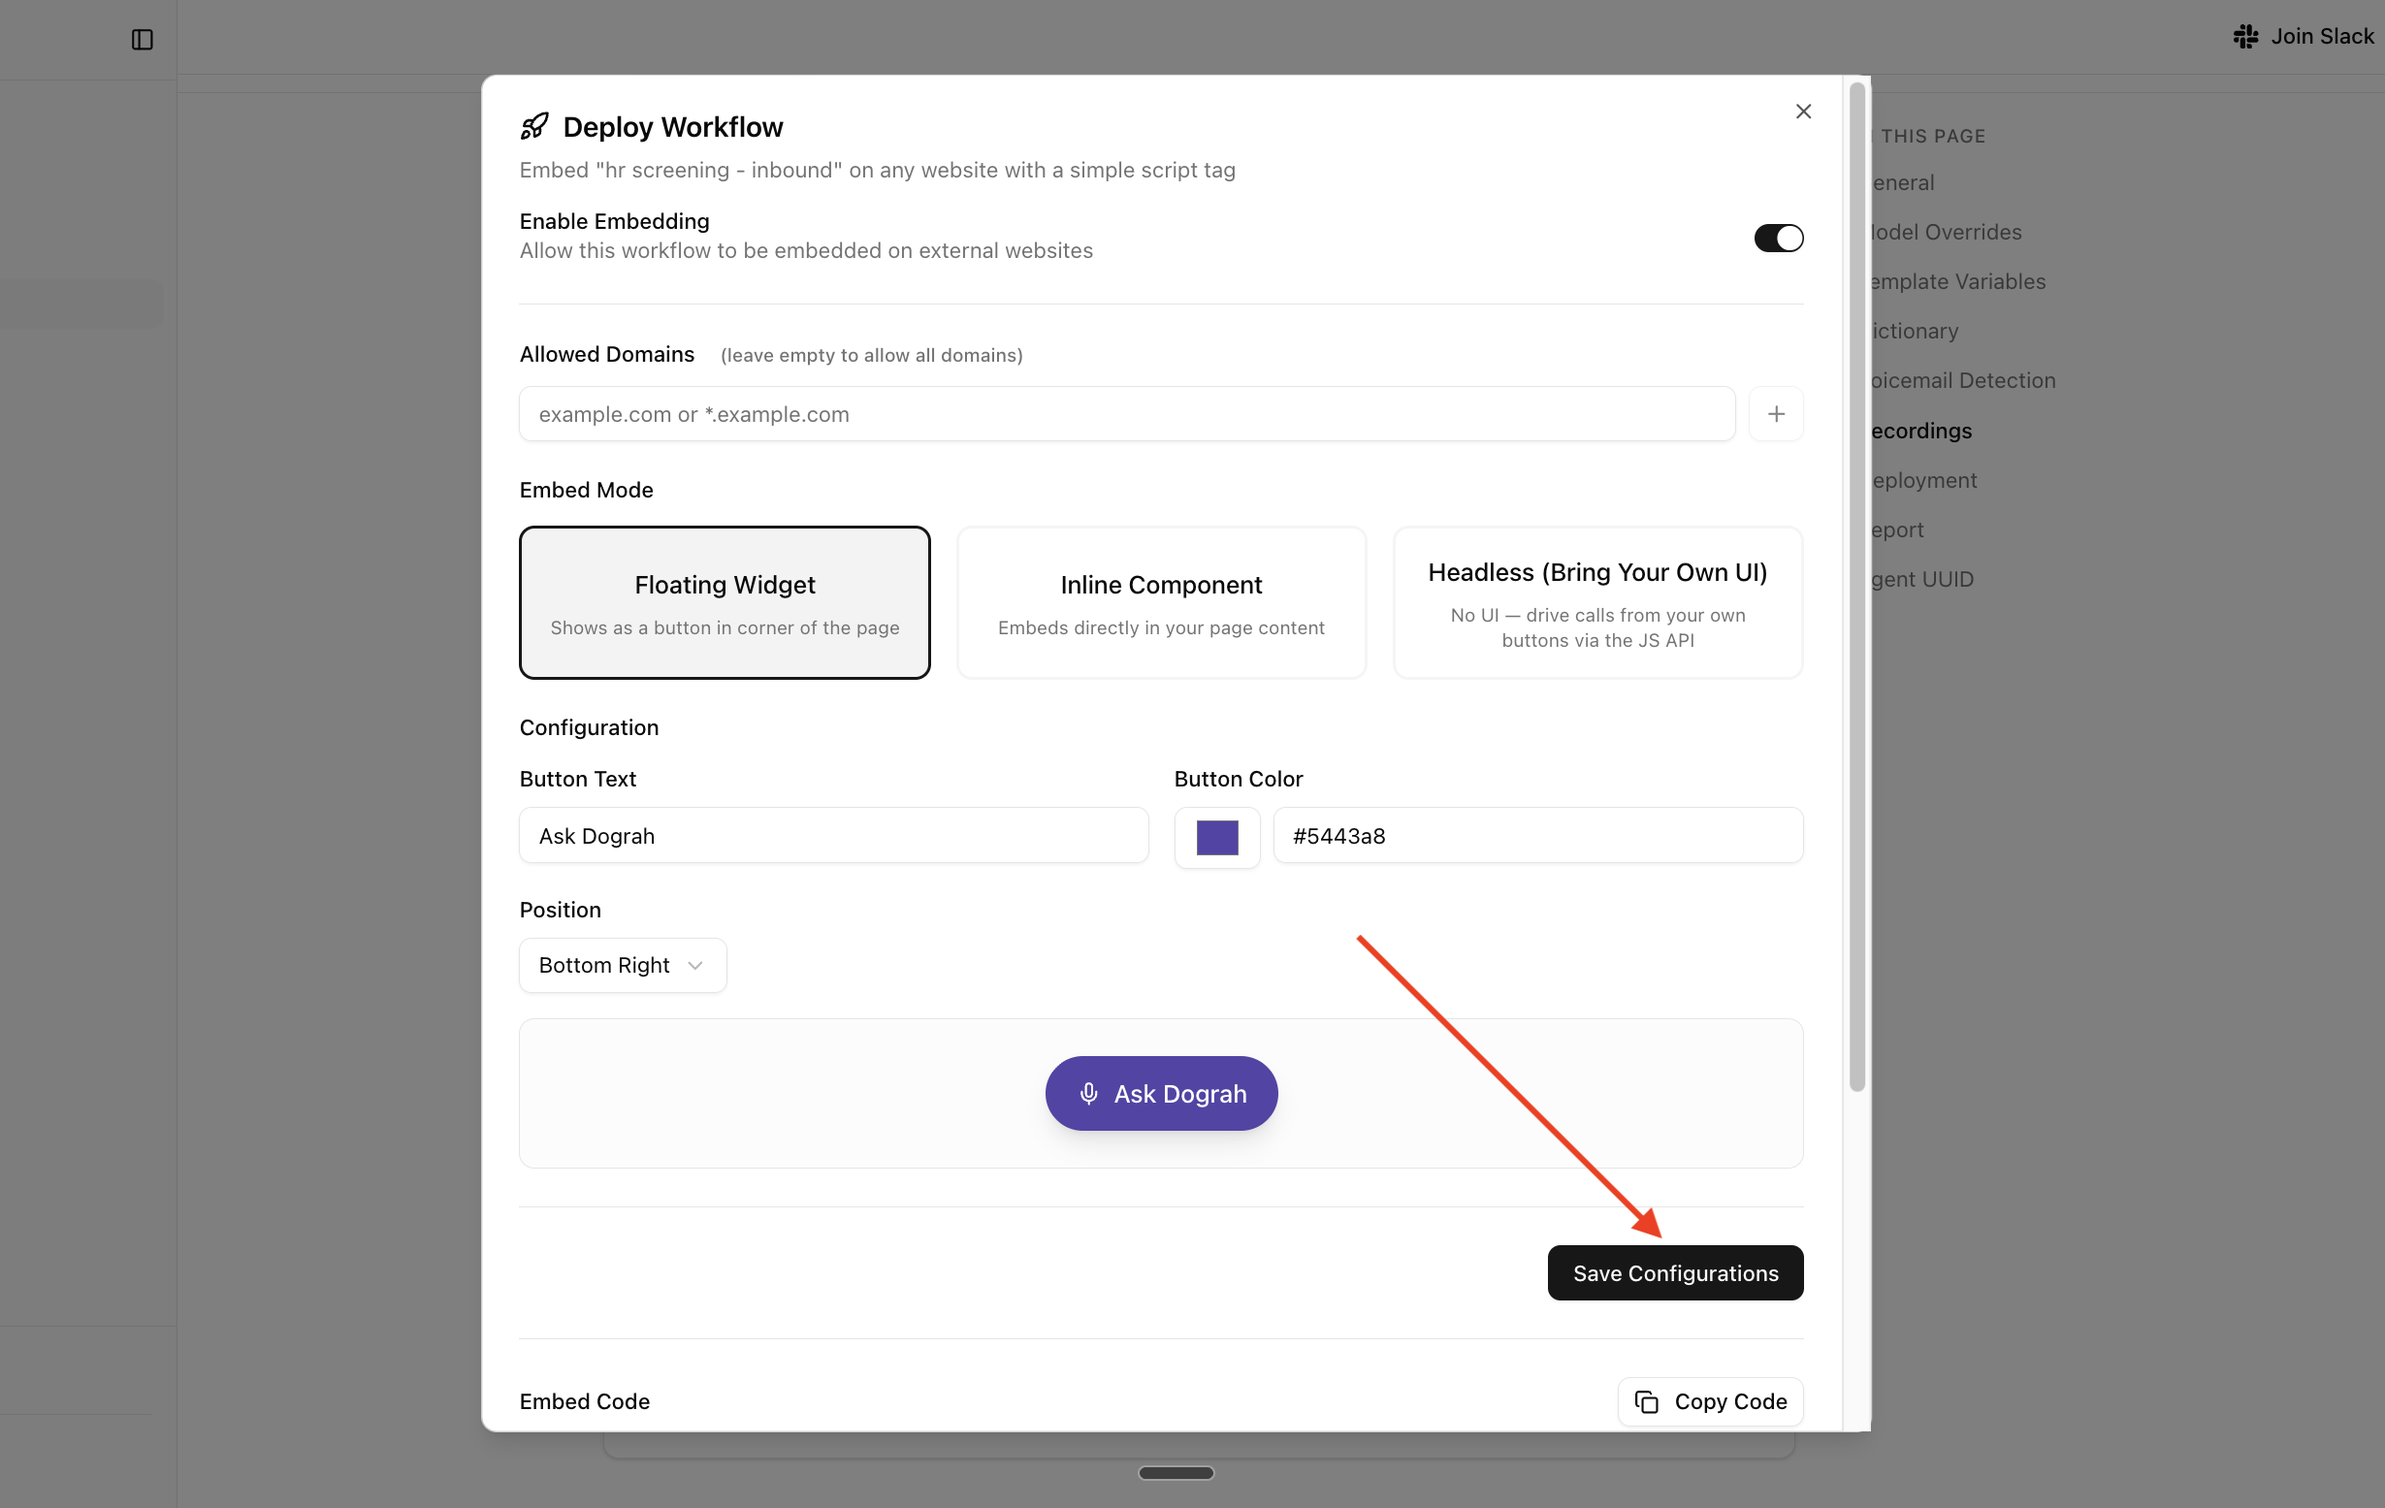
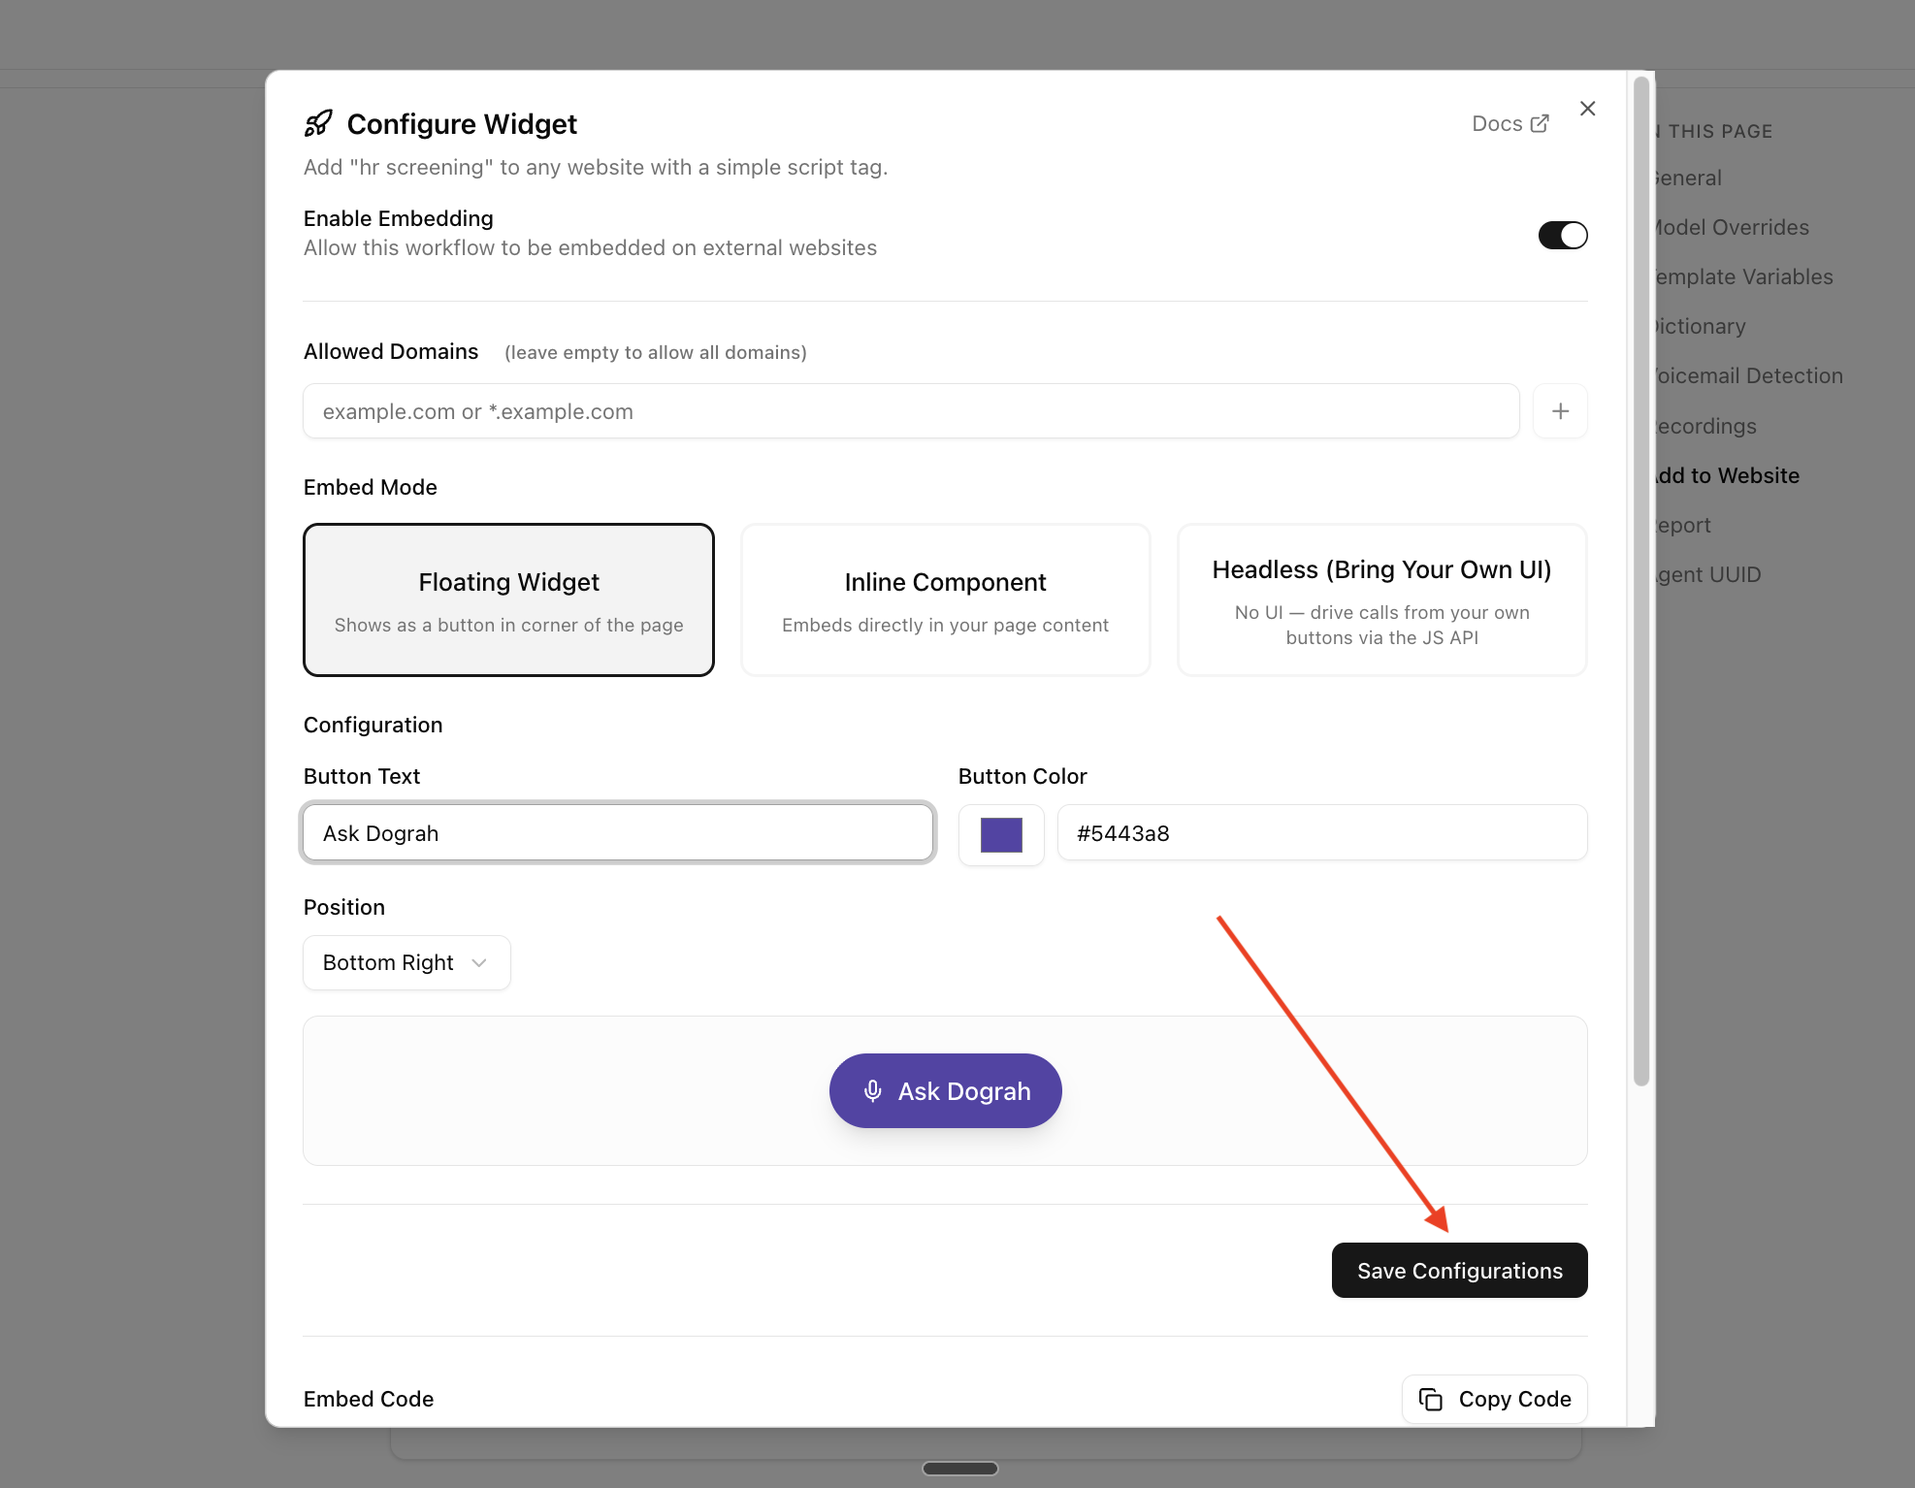
chore: rename deploy/embed widget section to add to website

diff --git a/ui/src/app/workflow/[workflowId]/components/EmbedDialog.tsx b/ui/src/app/workflow/[workflowId]/components/EmbedDialog.tsx
@@ -1,4 +1,4 @@
-import { Check, Copy, Loader2, Mic, Plus, Rocket, Trash2 } from "lucide-react";
+import { Check, Copy, ExternalLink, Loader2, Mic, Plus, Rocket, Trash2 } from "lucide-react";
 import { useCallback, useEffect, useState } from "react";
 
 import {
@@ -25,6 +25,7 @@ import {
 } from "@/components/ui/select";
 import { Separator } from "@/components/ui/separator";
 import { Switch } from "@/components/ui/switch";
+import { WIDGET_MODE_DOCUMENTATION_URLS } from "@/constants/documentation";
 
 interface EmbedDialogProps {
     open: boolean;
@@ -177,12 +178,23 @@ export function EmbedDialog({
         <Dialog open={open} onOpenChange={onOpenChange}>
             <DialogContent className="sm:max-w-4xl w-full max-h-[90vh] overflow-y-auto">
                 <DialogHeader>
-                    <DialogTitle className="flex items-center gap-2">
-                        <Rocket className="h-5 w-5" />
-                        Deploy Workflow
-                    </DialogTitle>
+                    <div className="flex items-center justify-between">
+                        <DialogTitle className="flex items-center gap-2">
+                            <Rocket className="h-5 w-5" />
+                            Configure Widget
+                        </DialogTitle>
+                        <a
+                            href={WIDGET_MODE_DOCUMENTATION_URLS[embedMode]}
+                            target="_blank"
+                            rel="noopener noreferrer"
+                            className="flex items-center gap-1 text-sm text-muted-foreground hover:text-foreground transition-colors pr-6"
+                        >
+                            Docs
+                            <ExternalLink className="h-3.5 w-3.5" />
+                        </a>
+                    </div>
                     <DialogDescription>
-                        Embed &quot;{workflowName}&quot; on any website with a simple script tag
+                        Add &quot;{workflowName}&quot; to any website with a simple script tag.
                     </DialogDescription>
                 </DialogHeader>
 
@@ -542,8 +554,8 @@ document.getElementById('talk-btn').addEventListener('click', () => {
                                     </Button>
                                 </div>
 
-                                {/* Embed Script (shows after saving) */}
-                                {embedToken && embedToken.is_active && (
+                                {/* Embed Script (shows after saving; placeholder before) */}
+                                {embedToken && embedToken.is_active ? (
                                     <>
                                         <Separator />
                                         <div className="space-y-3">
@@ -576,6 +588,16 @@ document.getElementById('talk-btn').addEventListener('click', () => {
                                                 Add this script to your website&apos;s HTML to enable the voice widget.
                                                 Configuration changes will apply automatically without re-embedding.
                                             </p>
+                                        </div>
+                                    </>
+                                ) : (
+                                    <>
+                                        <Separator />
+                                        <div className="space-y-3">
+                                            <Label className="text-muted-foreground">Embed Code</Label>
+                                            <div className="rounded-lg border border-dashed bg-muted/30 px-4 py-8 text-center text-sm text-muted-foreground">
+                                                Click <span className="font-medium">Save Configurations</span> to generate your embed script.
+                                            </div>
                                         </div>
                                     </>
                                 )}

diff --git a/ui/src/app/workflow/[workflowId]/settings/page.tsx b/ui/src/app/workflow/[workflowId]/settings/page.tsx
@@ -79,7 +79,7 @@ const NAV_ITEMS = [
     { id: "dictionary", label: "Dictionary", icon: BookA },
     { id: "voicemail", label: "Voicemail Detection", icon: PhoneOff },
     { id: "recordings", label: "Recordings", icon: Mic },
-    { id: "deployment", label: "Deployment", icon: Rocket },
+    { id: "deployment", label: "Add to Website", icon: Rocket },
     { id: "report", label: "Report", icon: FileDown },
     { id: "identity", label: "Agent UUID", icon: Fingerprint },
 ];
@@ -1294,17 +1294,16 @@ function WorkflowSettingsInner({
                                 <CardHeader>
                                     <CardTitle className="flex items-center gap-2 text-base">
                                         <Rocket className="h-4 w-4" />
-                                        Deployment
+                                        Add to Website
                                     </CardTitle>
                                     <CardDescription>
-                                        Generate and manage the embed configuration to deploy this workflow on external
-                                        websites.{" "}
+                                        Configure a widget to add this voice agent to your website.{" "}
                                         <a href={SETTINGS_DOCUMENTATION_URLS.deployment} target="_blank" rel="noopener noreferrer" className="inline-flex items-center gap-0.5 underline">Learn more <ExternalLink className="h-3 w-3" /></a>
                                     </CardDescription>
                                 </CardHeader>
                                 <CardFooter className="border-t pt-6">
                                     <Button variant="outline" onClick={() => setIsEmbedDialogOpen(true)}>
-                                        Configure Embed
+                                        Configure Widget
                                     </Button>
                                 </CardFooter>
                             </Card>

diff --git a/ui/src/constants/documentation.ts b/ui/src/constants/documentation.ts
@@ -24,7 +24,13 @@ export const SETTINGS_DOCUMENTATION_URLS: Record<string, string> = {
     templateVariables: `${DOCS_BASE}/voice-agent/template-variables`,
 
     recordings: `${DOCS_BASE}/voice-agent/pre-recorded-audio`,
-    deployment: `${DOCS_BASE}/deployment/web-widget`,
+    deployment: `${DOCS_BASE}/voice-agent/add-to-website`,
+};
+
+export const WIDGET_MODE_DOCUMENTATION_URLS: Record<"floating" | "inline" | "headless", string> = {
+    floating: `${DOCS_BASE}/voice-agent/add-to-website#floating-widget`,
+    inline: `${DOCS_BASE}/voice-agent/add-to-website#inline-component`,
+    headless: `${DOCS_BASE}/voice-agent/add-to-website#headless-mode`,
 };
 
 export const TOOL_DOCUMENTATION_URLS: Record<string, string> = {
